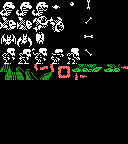
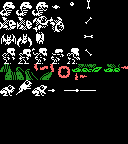
started creating jungle enemies

diff --git a/java/src/xspelunker2/GenerateSprites.java b/java/src/xspelunker2/GenerateSprites.java
@@ -30,7 +30,8 @@ public class GenerateSprites {
 
         extractDialogSprites("src/autogenerated/dialog-sprites");
         
-        extractEnemySprites("src/autogenerated/enemy-sprites");
+        extractJungleEnemySprites("src/autogenerated/enemy-sprites-jungle");
+        extractPyramidEnemySprites("src/autogenerated/enemy-sprites-pyramid");
     }
 
     
@@ -146,12 +147,14 @@ public class GenerateSprites {
     }
     
     
-    public static void extractEnemySprites(String outputPath) throws Exception
+    public static void extractJungleEnemySprites(String outputPath) throws Exception
     {
         BufferedImage sourceImage = ImageIO.read(new File("data/enemies.png"));
         List<Integer> data = new ArrayList<>();
         
-        // snakes:
+        // bullet (0):
+        data.addAll(extractSprite(sourceImage, 64, 0, 15));  // bullet
+        // snakes (1):
         data.addAll(extractSprite(sourceImage, 0, 0, 15));  // snake right
         data.addAll(extractSprite(sourceImage, 16, 0, 15));
         data.addAll(extractSpriteFlipped(sourceImage, 0, 0, 15));  // snake left
@@ -159,7 +162,7 @@ public class GenerateSprites {
         data.addAll(extractSprite(sourceImage, 32, 0, 15));  // snake spitting right
         data.addAll(extractSpriteFlipped(sourceImage, 32, 0, 15));  // snake spitting left
         data.addAll(extractSpriteFlipped(sourceImage, 48, 0, 15));  // poison
-        // piranha (7):
+        // piranha (8):
         data.addAll(extractSprite(sourceImage, 0, 16, 15));  // fish right
         data.addAll(extractSprite(sourceImage, 16, 16, 15));
         data.addAll(extractSprite(sourceImage, 32, 16, 15));  // fish jump right
@@ -168,15 +171,60 @@ public class GenerateSprites {
         data.addAll(extractSpriteFlipped(sourceImage, 16, 16, 15));
         data.addAll(extractSpriteFlipped(sourceImage, 32, 16, 15));  // fish jump left
         data.addAll(extractSpriteFlipped(sourceImage, 48, 16, 15));
-        // bats: (15):
+        // frog (16):
+        data.addAll(extractSprite(sourceImage, 0, 80, 15));  // frog right
+        data.addAll(extractSprite(sourceImage, 16, 80, 15));
+        data.addAll(extractSprite(sourceImage, 32, 80, 15));
+        data.addAll(extractSpriteFlipped(sourceImage, 0, 80, 15));  // frog left
+        data.addAll(extractSpriteFlipped(sourceImage, 16, 80, 15));
+        data.addAll(extractSpriteFlipped(sourceImage, 32, 80, 15));
+        data.addAll(extractSprite(sourceImage, 48, 80, 15));  // frog tongue right
+        data.addAll(extractSprite(sourceImage, 64, 80, 15));
+        data.addAll(extractSprite(sourceImage, 80, 80, 15));
+        data.addAll(extractSpriteFlipped(sourceImage, 48, 80, 15));  // frog tongue left
+        data.addAll(extractSpriteFlipped(sourceImage, 64, 80, 15));
+
+        if (data.size() > 40 * 32) {
+            throw new Exception("More enemy sprites than the engine can handle!");
+        }
+        
+        System.out.println("extractEnemySprites: " + data.size());
+        Z80Assembler.dataToBinary(data, outputPath + ".bin");   
+        ZX0Wrapper.main(outputPath + ".bin", outputPath + ".zx0", true, false);
+    }
+    
+    
+    public static void extractPyramidEnemySprites(String outputPath) throws Exception
+    {
+        BufferedImage sourceImage = ImageIO.read(new File("data/enemies.png"));
+        List<Integer> data = new ArrayList<>();
+        
+        // bullet (0):
+        data.addAll(extractSprite(sourceImage, 64, 0, 15));  // bullet
+        // snakes (1):
+        data.addAll(extractSprite(sourceImage, 0, 0, 15));  // snake right
+        data.addAll(extractSprite(sourceImage, 16, 0, 15));
+        data.addAll(extractSpriteFlipped(sourceImage, 0, 0, 15));  // snake left
+        data.addAll(extractSpriteFlipped(sourceImage, 16, 0, 15));
+        data.addAll(extractSprite(sourceImage, 32, 0, 15));  // snake spitting right
+        data.addAll(extractSpriteFlipped(sourceImage, 32, 0, 15));  // snake spitting left
+        data.addAll(extractSpriteFlipped(sourceImage, 48, 0, 15));  // poison
+        // piranha (8):
+        data.addAll(extractSprite(sourceImage, 0, 16, 15));  // fish right
+        data.addAll(extractSprite(sourceImage, 16, 16, 15));
+        data.addAll(extractSprite(sourceImage, 32, 16, 15));  // fish jump right
+        data.addAll(extractSprite(sourceImage, 48, 16, 15));
+        data.addAll(extractSpriteFlipped(sourceImage, 0, 16, 15));  // fish left
+        data.addAll(extractSpriteFlipped(sourceImage, 16, 16, 15));
+        data.addAll(extractSpriteFlipped(sourceImage, 32, 16, 15));  // fish jump left
+        data.addAll(extractSpriteFlipped(sourceImage, 48, 16, 15));
+        // bats: (16):
         data.addAll(extractSprite(sourceImage, 0, 32, 15));  // bat right
         data.addAll(extractSprite(sourceImage, 16, 32, 15));
         data.addAll(extractSpriteFlipped(sourceImage, 0, 32, 15));  // bat left
         data.addAll(extractSpriteFlipped(sourceImage, 16, 32, 15));
         data.addAll(extractSprite(sourceImage, 32, 32, 15));  // bat hanging
-        // bullet (20):
-        data.addAll(extractSprite(sourceImage, 64, 0, 15));  // bullet
-        // skeletons (21):
+        // skeletons (22):
         data.addAll(extractSprite(sourceImage, 0, 48, 15));  // right walk
         data.addAll(extractSprite(sourceImage, 16, 48, 15));  // 
         data.addAll(extractSprite(sourceImage, 32, 48, 15));  // right shoot
@@ -187,7 +235,7 @@ public class GenerateSprites {
         data.addAll(extractSpriteFlipped(sourceImage, 48, 48, 15));  // 
         data.addAll(extractSprite(sourceImage, 64, 48, 15));  // right idle
         data.addAll(extractSpriteFlipped(sourceImage, 64, 48, 15));  // left idle
-        // bone bullet (31)
+        // bone bullet (32)
         data.addAll(extractSprite(sourceImage, 80, 0, 15));
         data.addAll(extractSprite(sourceImage, 80, 16, 15));
         data.addAll(extractSprite(sourceImage, 80, 32, 15));
